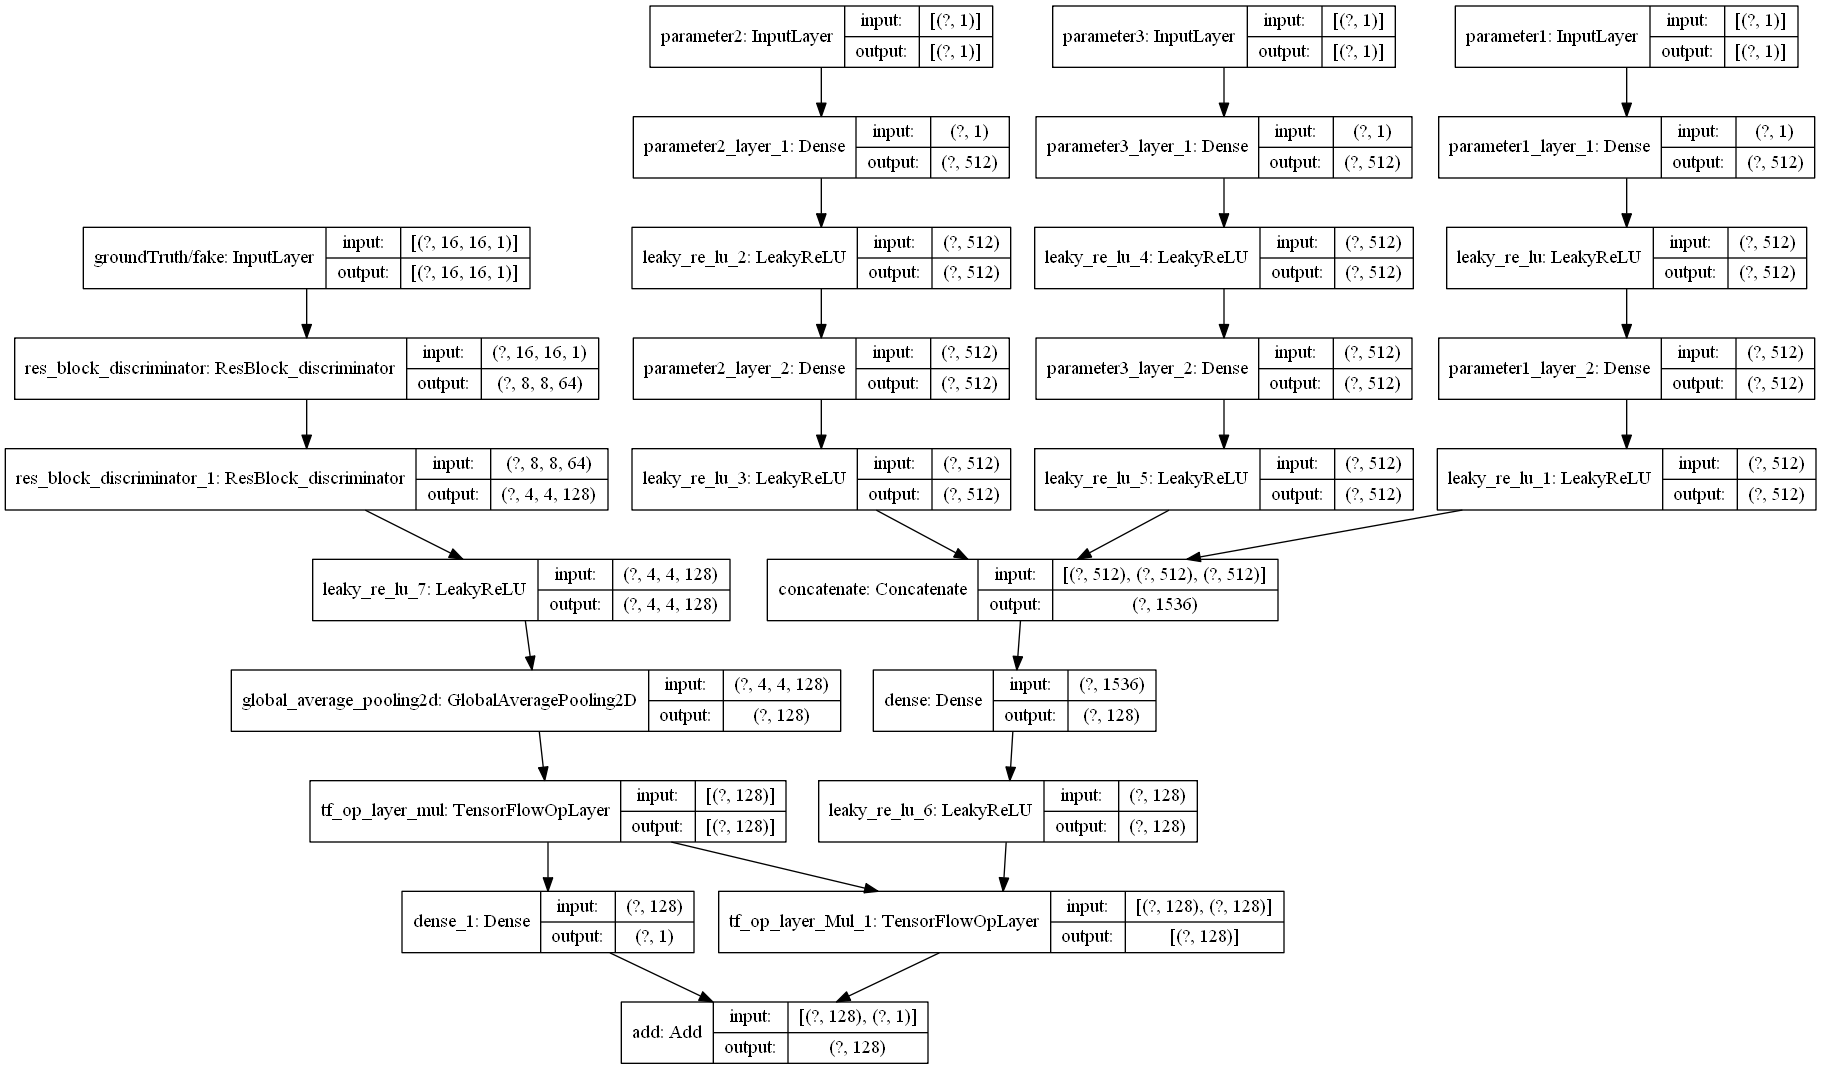
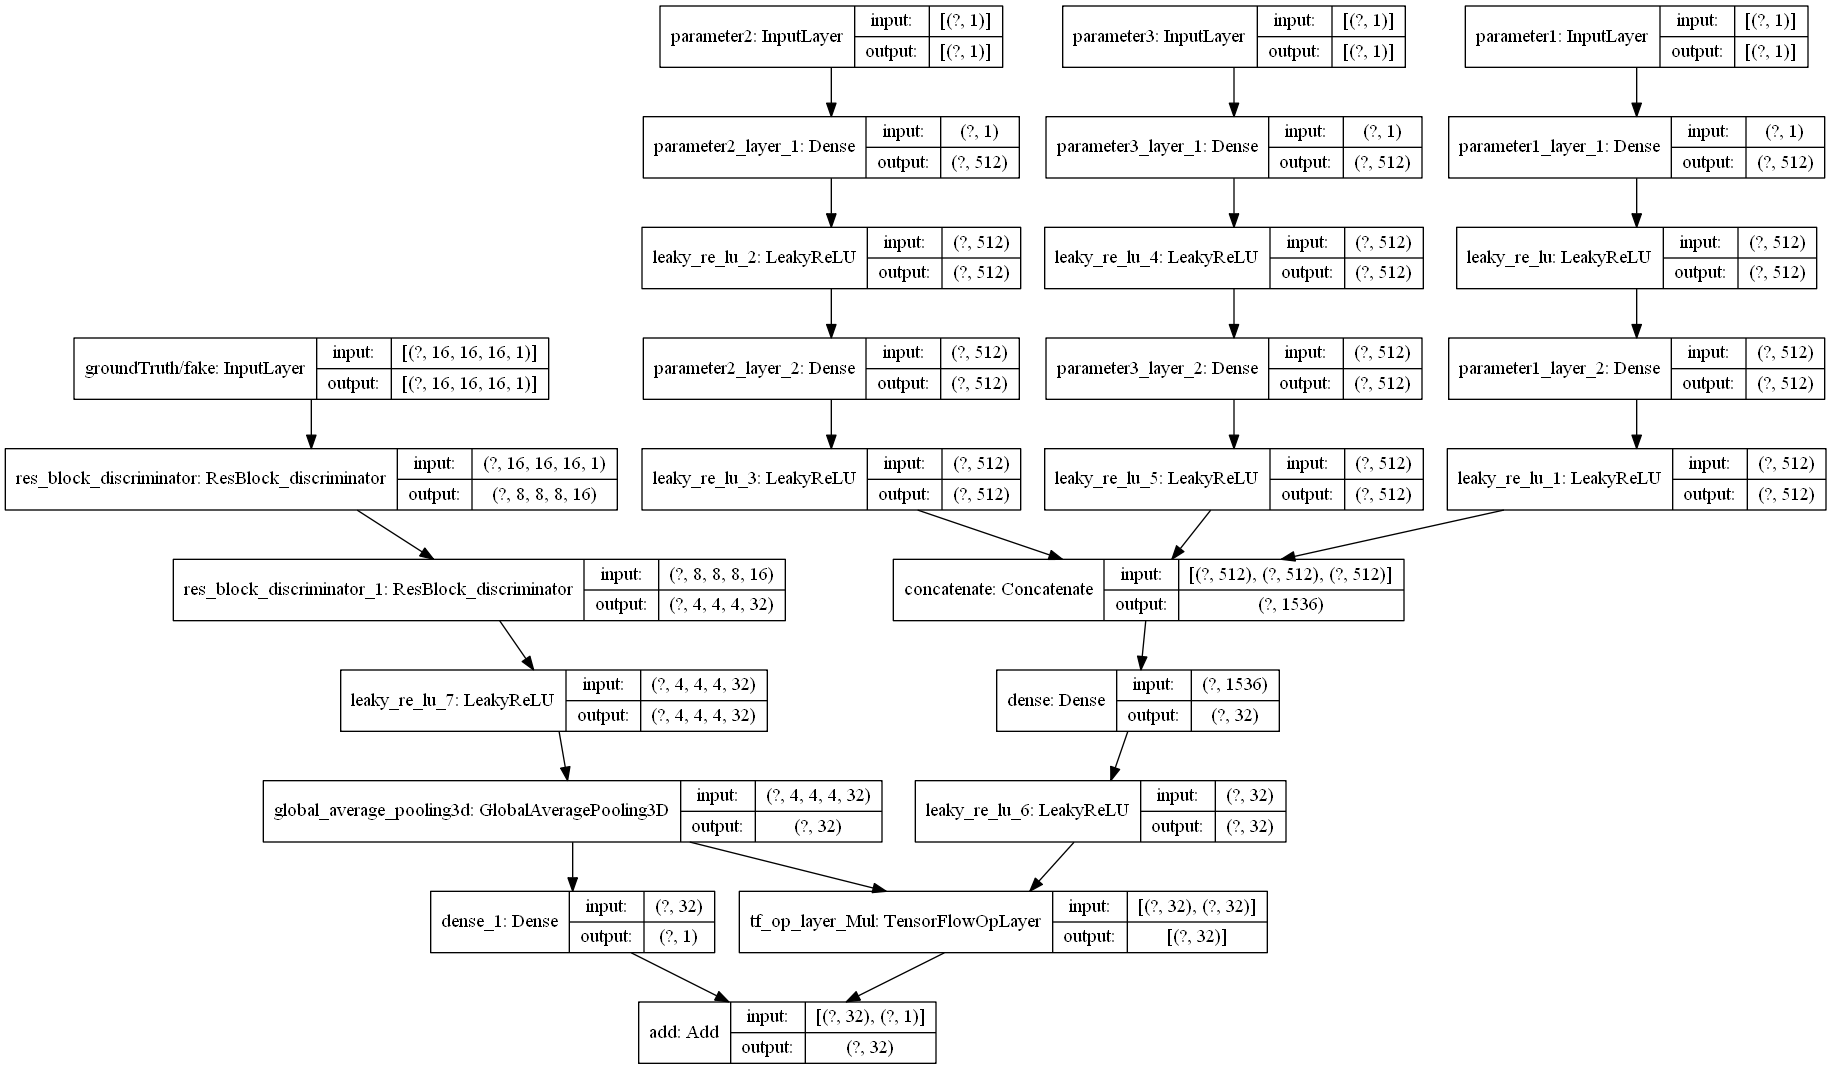
一個class的極致,他媽再亂改試試看

diff --git a/GAN.py b/GAN.py
@@ -15,7 +15,7 @@ class GAN():
         self.width = width
         self.height = height
 
-        self.filterNumber = 64
+        self.filterNumber = 16
         self.L2_coefficient = 0.5
         self.feature_cofficient = 0.5 
         self.dis = self.discriminator()
@@ -57,18 +57,17 @@ class GAN():
 
         concatenate = layers.concatenate(inputs = [x, y, z])
         
-        g =layers.Dense(4*4*int(self.width/4)*self.filterNumber)(concatenate)
-        g = layers.Reshape((4, 4,  int(self.width/4)*self.filterNumber))(g)
-        
-        for i in range(int(tf.math.log(self.width/4, 2))-1, -1, -1):
-           # g = SpectralNormalization(layers.Conv2DTranspose((2**i)*self.filterNumber, kernel_size=3, strides=2, padding='same', use_bias=False))(g)
-            g = ResBlock_generator((2**i)*self.filterNumber)(g)
+        g =layers.Dense(4*4*4*2*self.filterNumber)(concatenate)
+        g = layers.Reshape((4, 4, 4,  2*self.filterNumber))(g)
+           # g = SpectralNormalization(layers.Conv3DTranspose((2**i)*self.filterNumber, kernel_size=3, strides=2, padding='same', use_bias=False))(g)
+        g = ResBlock_generator(2*self.filterNumber)(g)
+        g = ResBlock_generator(self.filterNumber)(g)
             #g = layers.Conv3DTranspose((2**i)*self.filterNumber, kernel_size=3, strides=2, padding='same', use_bias=False)(g)
         g = layers.LeakyReLU()(g)
         
 
-        #g = SpectralNormalization(layers.Conv2DTranspose(1, kernel_size=3, strides=1, padding='same', use_bias=False))(g)
-        g = layers.Conv2D(1, kernel_size=3, strides=1, padding='same', use_bias=False)(g)
+        #g = SpectralNormalization(layers.Conv3DTranspose(1, kernel_size=3, strides=1, padding='same', use_bias=False))(g)
+        g = layers.Conv3D(1, kernel_size=3, strides=1, padding='same', use_bias=False)(g)
         
         #g = layers.Activation(tf.nn.tanh)(g)
         
@@ -81,7 +80,7 @@ class GAN():
         parameter1_input = keras.Input(shape = (1), name = 'parameter1')
         parameter2_input = keras.Input(shape = (1), name = 'parameter2')
         parameter3_input = keras.Input(shape = (1), name = 'parameter3')
-        dataInput = keras.Input(shape = (self.length,self.width, self.height), name = 'groundTruth/fake')
+        dataInput = keras.Input(shape = (self.length,self.width, self.height, 1), name = 'groundTruth/fake')
     
         x = layers.Dense(512, name = 'parameter1_layer_1')(parameter1_input)
         # if self.hparams[HP_BN_UNITS] : x = layers.BatchNormalization()(x)
@@ -108,26 +107,24 @@ class GAN():
         z = layers.LeakyReLU()(z)
 
         concatenate = layers.concatenate(inputs = [x, y, z])
-        xyz = layers.Dense((int(tf.math.log(self.width/8, 2))+1)*self.filterNumber)(concatenate)    #Depends on how many level of conv2D you have
+        xyz = layers.Dense(2*self.filterNumber)(concatenate)    #Depends on how many level of conv3D you have
         xyz = layers.LeakyReLU()(xyz)
         
 
-        #d = SpectralNormalization(layers.Conv2D(self.filterNumber, kernel_size=3, strides=2, padding='same', use_bias=False))(dataInput)
+        #d = SpectralNormalization(layers.Conv3D(self.filterNumber, kernel_size=3, strides=2, padding='same', use_bias=False))(dataInput)
         #d = SpectralNormalization(layers.Conv3D(self.filterNumber, kernel_size=3, strides=2, padding='same', use_bias=False))(dataInput)
         d = ResBlock_discriminator(self.filterNumber)(dataInput)
        # d = layers.LeakyReLU()(d)
-    
-        for i in range(1, int(log(self.width/2, 2))-1):
-            d = ResBlock_discriminator((2**i)*self.filterNumber)(d)
+        d = ResBlock_discriminator(2*self.filterNumber)(d)
        
             #d = SpectralNormalization(layers.Conv3D((2**i)*self.filterNumber, kernel_size=3, strides=2, padding='same', use_bias=False))(d)
-            #d = SpectralNormalization(layers.Conv2D((2**i)*self.filterNumber, kernel_size=3, strides=2, padding='same', use_bias=False))(d)#
+            #d = SpectralNormalization(layers.Conv3D((2**i)*self.filterNumber, kernel_size=3, strides=2, padding='same', use_bias=False))(d)#
             
         d = layers.LeakyReLU()(d)
         
 
 
-        d = tf.keras.layers.GlobalAveragePooling2D()(d) * (self.height*self.width*self.length)
+        d = tf.keras.layers.GlobalAveragePooling3D()(d) 
         
         f1 = tf.multiply(d, xyz)
         f2 = layers.Dense(1)(d)
@@ -141,7 +138,7 @@ class GAN():
     
     def generator_loss(self, real_logit, fake_logit, real_data, fake_data_by_real_parameter):
         #volumetric loss
-        l2_norm = tf.norm(tensor = (fake_data_by_real_parameter-real_data[1]), ord='euclidean') / (self.length*self.width*self.height)
+        l2_norm = tf.norm(tensor = (fake_data_by_real_parameter-real_data[1]), ord='euclidean')# / (self.length*self.width*self.height)
         #Feature loss
         # feature_loss = 0
         # for i in range(len(fake_logit[1])):
@@ -186,7 +183,7 @@ class GAN():
             real_logit = self.dis([real_data[0][0], real_data[0][1], real_data[0][2], fake_data_by_real_parameter], training = False)
             #fake_logit = self.dis([fake_data_by_random_parameter], training = False)
             fake_loss, l2_norm= self.generator_loss(real_logit, fake_logit, real_data, fake_data_by_real_parameter)
-            gLoss = fake_loss + self.L2_coefficient * l2_norm #+ self.feature_cofficient * feature_loss
+            gLoss = fake_loss - self.L2_coefficient * l2_norm #+ self.feature_cofficient * feature_loss
         gradients = tape.gradient(gLoss, self.gen.trainable_variables)
         self.genOptimizer.apply_gradients(zip(gradients, self.gen.trainable_variables))
         return gLoss

diff --git a/resblock.py b/resblock.py
@@ -8,16 +8,16 @@ class ResBlock_generator(layers.Layer):
       
       #self.bn_0 = layers.BatchNormalization()
       self.relu0 = layers.PReLU()
-      self.upSample = layers.UpSampling2D()
-      self.conv_1 = SpectralNormalization(layers.Conv2D(out_shape,kernel_size=3,strides=1,padding='same', name = 'rg_conv1'))
+      self.upSample = layers.UpSampling3D()
+      self.conv_1 = SpectralNormalization(layers.Conv3D(out_shape,kernel_size=3,strides=1,padding='same', name = 'rg_conv1'))
       #self.bn_1 = layers.BatchNormalization()
       self.relu1 = layers.PReLU()
-      self.conv_2 = SpectralNormalization(layers.Conv2D(out_shape,kernel_size=3,strides=1,padding='same', name = 'rg_conv2'))
+      self.conv_2 = SpectralNormalization(layers.Conv3D(out_shape,kernel_size=3,strides=1,padding='same', name = 'rg_conv2'))
       
 
       #identity
-      self.upSample_identity = layers.UpSampling2D()
-      self.conv_identity = layers.Conv2D(out_shape,kernel_size=1,strides=1)
+      self.upSample_identity = layers.UpSampling3D()
+      self.conv_identity = layers.Conv3D(out_shape,kernel_size=1,strides=1)
 
 
   def call(self, inputs, training=None):
@@ -42,13 +42,13 @@ class ResBlock_discriminator(layers.Layer):
       super(ResBlock_discriminator, self).__init__()
 
       self.relu0 = layers.PReLU()
-      self.conv_1 = SpectralNormalization(layers.Conv2D(out_shape,kernel_size=3,strides=1,padding='same', name = 'rd_conv1'))
+      self.conv_1 = SpectralNormalization(layers.Conv3D(out_shape,kernel_size=3,strides=1,padding='same', name = 'rd_conv1'))
       self.relu1 = layers.PReLU()
-      self.conv_2 = SpectralNormalization(layers.Conv2D(out_shape,kernel_size=3,strides=1,padding='same', name = 'rd_conv2'))
-      self.average_pool = layers.AveragePooling2D()
+      self.conv_2 = SpectralNormalization(layers.Conv3D(out_shape,kernel_size=3,strides=1,padding='same', name = 'rd_conv2'))
+      self.average_pool = layers.AveragePooling3D()
 
       #identity
-      self.conv_identity = layers.Conv2D(out_shape, kernel_size=1 ,strides=1)
+      self.conv_identity = layers.Conv3D(out_shape, kernel_size=1 ,strides=1)
 
 
   def call(self, inputs, training=None):

diff --git a/config.py b/config.py
@@ -15,12 +15,12 @@ Nyx={
 'batchSize' : 32,
 'length' : 16,
 'width' : 16,
-'height' : 1,
+'height' : 16,
 'dataType' : 'float',
 'numberOfParameter' : 3,
 'numberOfParameterDigit' : 7,
-'stopConsecutiveEpoch' : 1000,
-'dataSetDir' : r'E:\NTNU1-2\Nyx\NyxDataSet\NyxDataSet16_16',
+'stopConsecutiveEpoch' : 100,
+'dataSetDir' : r'E:\NTNU1-2\Nyx\NyxDataSet\NyxDataSet16_16_16',
 'startingTime' : startingTime,
 'logDir' : 'E:\\NTNU1-2\\Nyx\\NyxDataSet\\wgan\\' + startingDate + '\\'
 

diff --git a/loadData.py b/loadData.py
@@ -21,7 +21,7 @@ def generateData(dataSetConfig):
     
     def process_input_data(ds):
         ds = tf.io.decode_raw(ds, dataType[dataSetConfig['dataType']][1])
-        ds = tf.reshape(ds, [dataSetConfig['width'], dataSetConfig['length'], dataSetConfig['height']])       
+        ds = tf.reshape(ds, [dataSetConfig['width'], dataSetConfig['length'], dataSetConfig['height'], 1])       
         return  ds
         
     AUTOTUNE = tf.data.experimental.AUTOTUNE
